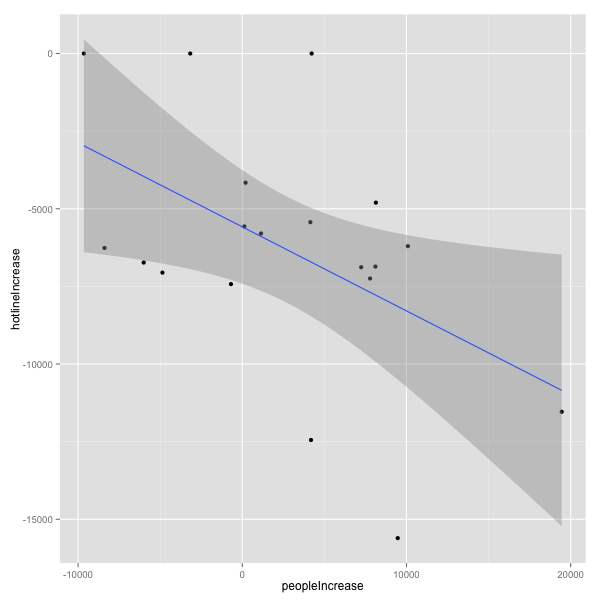
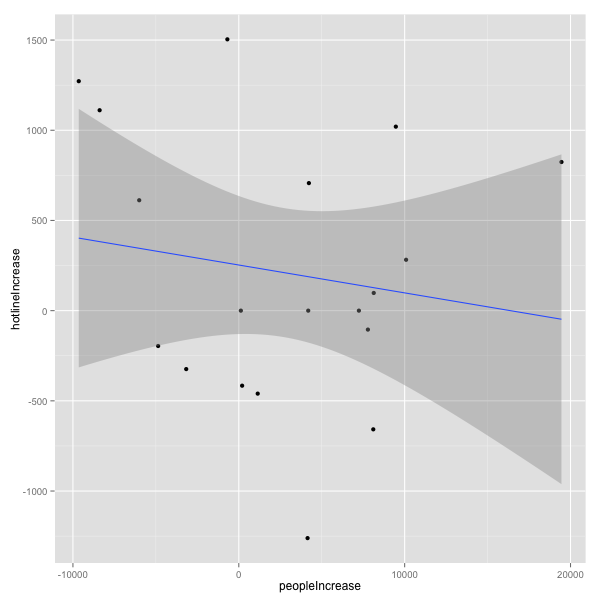
Fixed graphs, deleted EMS graph

diff --git a/index.html b/index.html
@@ -25,10 +25,10 @@
        <a href="https://github.com/Butterwell/mbta-latenight" rel="me">Find me on GitHub</a>
     </div>
 
-    <div class="container" style="margin-top: 20px;">
+    <div class="container" style="margin-top: 30px;">
         <h1>MBTA Late Night T <small>Data Challenge</small></h1>
         <p class="lead">Exploring the effects of the Late Night T service on the
-            weekends on reported crime, Mayor's hotline complaints and emergency room visits.</p>
+            weekends on reported crime and Mayor's hotline complaints.</p>
 
 
         <h3>Introduction</h3>
@@ -40,11 +40,9 @@
         <h3>Results</h3>
         <p>After processing the data, we observed...</p>
 
-        <h4 style="margin-top: 20px;">Complaints vs. Number of people out</h4>
+        <h4 style="margin-top: 30px;">Mayor Hotline's complaints vs. number of people out</h4>
         <img src="images/compComplaints.png" class="img-thumbnail" alt="Complaints comparison">
-        <h4 style="margin-top: 20px;">Emergencies vs. Number of people out</h4>
-        <img src="images/compEmergencies.png" class="img-thumbnail" alt="Emergencies comparison">
-        <h4 style="margin-top: 20px;">Crime vs. Number of people out</h4>
+        <h4 style="margin-top: 30px;">Crime vs. Number of people out</h4>
         <img src="images/compCrime.png" class="img-thumbnail" alt="Crime comparison">
 
 
